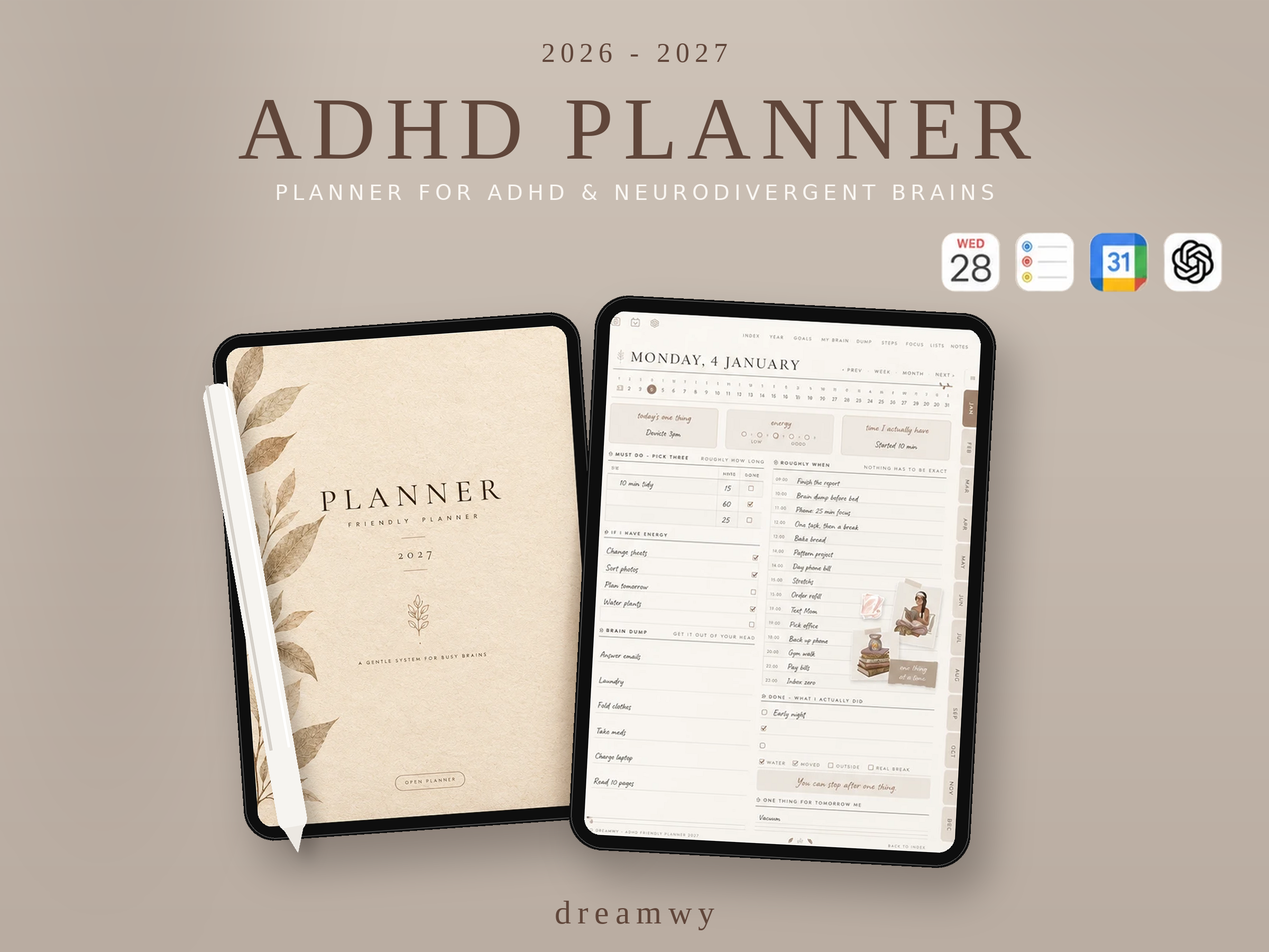
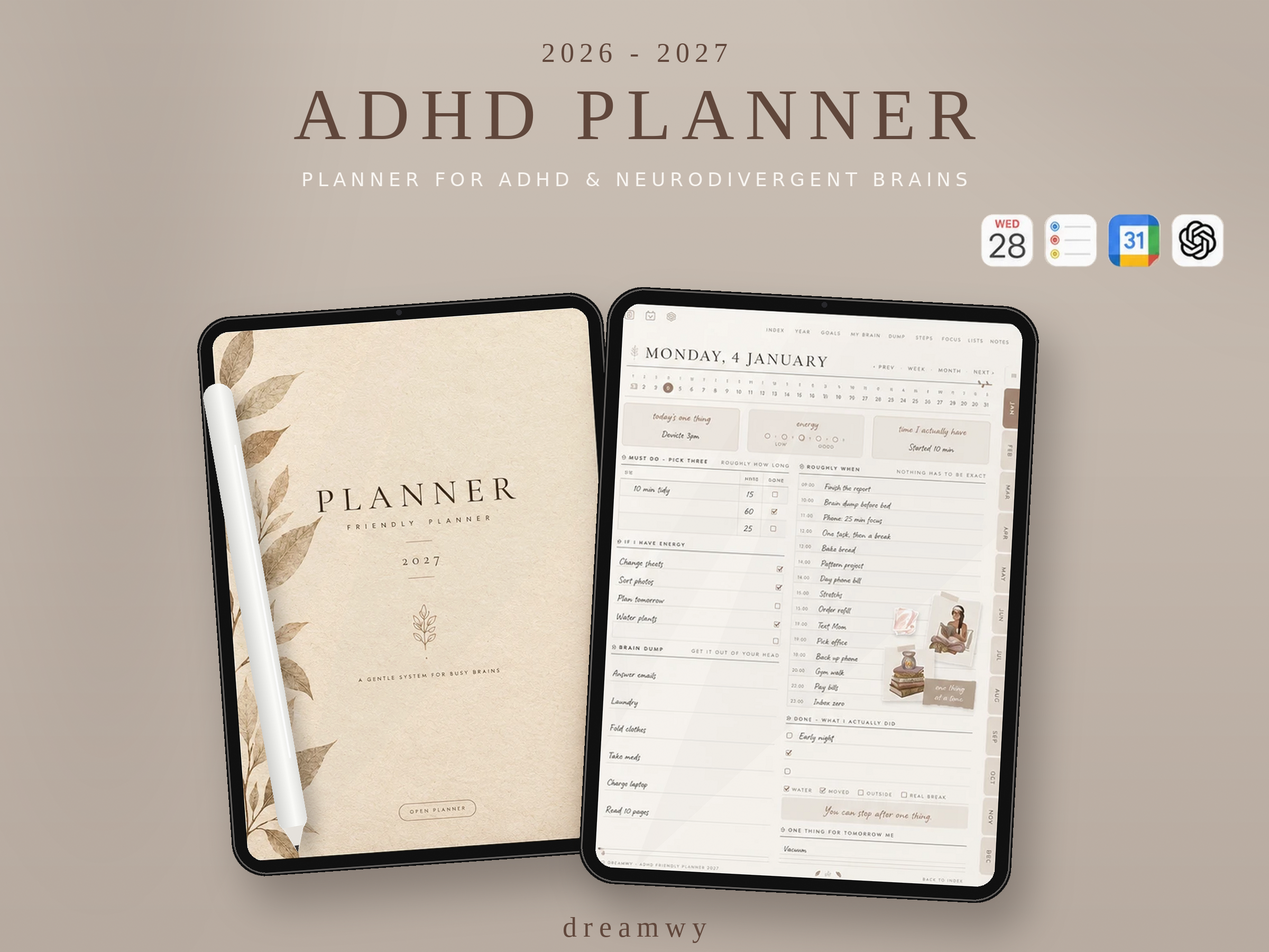
Improve mockup: larger tablets, tighter header, shaded pencil, subtle glare and vignette
Claude-Session: https://claude.ai/code/session_015ZGVvYxuW9E1f2kNKHXQzt

Changed region(s): [[0.1562, 0.0933, 0.9688, 0.9956], [0.2812, 0.6222, 0.375, 0.7156], [0.3125, 0.56, 0.3438, 0.5911]]

diff --git a/mockup/make_mockup.py b/mockup/make_mockup.py
@@ -51,8 +51,14 @@ def tablet(screen, height, angle):
     ImageDraw.Draw(m).rounded_rectangle((0, 0, sw - 1, sh_ - 1), radius=int(pad * 1.1), fill=255)
     dev = Image.new("RGBA", (w, h), (0, 0, 0, 0))
     ImageDraw.Draw(dev).rounded_rectangle((0, 0, w - 1, h - 1), radius=int(pad * 2.2), fill=(14, 14, 14, 255))
-    ImageDraw.Draw(dev).rounded_rectangle((3, 3, w - 4, h - 4), radius=int(pad * 2.2), outline=(70, 70, 70, 255), width=2)
+    ImageDraw.Draw(dev).rounded_rectangle((3, 3, w - 4, h - 4), radius=int(pad * 2.2), outline=(95, 92, 90, 255), width=3)
     dev.paste(scr, (pad, pad), m)
+    gl = Image.new("RGBA", (sw, sh_), (0, 0, 0, 0))
+    gd = ImageDraw.Draw(gl)
+    gd.polygon([(sw * .55, 0), (sw, 0), (sw, sh_ * .35), (sw * .1, sh_)], fill=(255, 255, 255, 7))
+    gd.polygon([(0, sh_ * .6), (sw * .45, 0), (sw * .6, 0), (0, sh_ * .8)], fill=(255, 255, 255, 4))
+    dev.paste(gl, (pad, pad), Image.composite(gl.split()[3], Image.new("L", gl.size, 0), m))
+    ImageDraw.Draw(dev).ellipse((w / 2 - 5, pad / 2 - 5, w / 2 + 5, pad / 2 + 5), fill=(38, 38, 42, 255))
     return dev.rotate(angle, resample=Image.BICUBIC, expand=True)
 
 
@@ -69,16 +75,24 @@ def place(dev, cx, cy):
     canvas.alpha_composite(dev, (x, y))
 
 
-place(tablet(cover, 960, 4), 780, 1090)
-place(tablet(daily, 1050, -3), 1480, 1100)
+place(tablet(cover, 1060, 4), 790, 1105)
+place(tablet(daily, 1130, -3), 1530, 1125)
 
 # pencil lying on the cover
 pen = Image.new("RGBA", (900, 56), (0, 0, 0, 0))
 pd = ImageDraw.Draw(pen)
-pd.rounded_rectangle((0, 0, 860, 55), radius=26, fill=(246, 244, 240, 255))
-pd.polygon([(850, 8), (900, 28), (850, 48)], fill=(236, 232, 226, 255))
-pd.rectangle((0, 8, 700, 12), fill=(255, 255, 255, 255))
-pd.rectangle((0, 42, 700, 47), fill=(214, 209, 202, 255))
+body = Image.new("RGBA", (860, 56), (0, 0, 0, 0))
+bd = ImageDraw.Draw(body)
+for yy in range(56):
+    k = 1 - abs(yy - 22) / 34
+    c = int(212 + 43 * max(k, 0))
+    bd.line([(0, yy), (860, yy)], fill=(c, c, int(c - 3), 255))
+mk = Image.new("L", (860, 56), 0)
+ImageDraw.Draw(mk).rounded_rectangle((0, 0, 859, 55), radius=26, fill=255)
+pen.paste(body, (0, 0), mk)
+pd.polygon([(850, 8), (900, 28), (850, 48)], fill=(232, 228, 222, 255))
+pd.polygon([(886, 24), (900, 28), (886, 32)], fill=(60, 56, 54, 255))
+pd.rectangle((120, 10, 720, 13), fill=(255, 255, 255, 255))
 pen = pen.rotate(-80, expand=True, resample=Image.BICUBIC)
 sh_p = Image.new("RGBA", pen.size, (30, 20, 14, 0)); sh_p.putalpha(pen.split()[3].point(lambda v: int(v * .5)))
 lay = Image.new("RGBA", (W, H), (0, 0, 0, 0)); lay.paste(sh_p, (400, 740), sh_p)
@@ -88,14 +102,22 @@ canvas.alpha_composite(pen, (380, 720))
 d = ImageDraw.Draw(canvas)
 ink = (96, 70, 58)
 spaced(d, (W / 2, 70), "2026 - 2027", ImageFont.truetype(serif, 52), ink, 10)
-spaced(d, (W / 2, 150), "ADHD PLANNER", ImageFont.truetype(serif, 168), ink, 18)
-spaced(d, (W / 2, 340), "PLANNER FOR ADHD & NEURODIVERGENT BRAINS", ImageFont.truetype(sans, 40), (250, 247, 243), 9)
+spaced(d, (W / 2, 140), "ADHD PLANNER", ImageFont.truetype(serif, 138), ink, 20)
+spaced(d, (W / 2, 318), "PLANNER FOR ADHD & NEURODIVERGENT BRAINS", ImageFont.truetype(sans, 36), (252, 249, 245), 9)
 # app icons, top right
-x = 1780
+x = 1855
 for ic in icons:
-    ic = ic.resize((112, 112), Image.LANCZOS)
-    m = Image.new("L", ic.size, 0); ImageDraw.Draw(m).rounded_rectangle((0, 0, 111, 111), radius=26, fill=255)
-    canvas.paste(ic, (x, 440), m)
-    x += 140
-spaced(d, (W / 2, 1690), "dreamwy", ImageFont.truetype(serif, 62), ink, 12)
-canvas.convert("RGB").save(OUT)
+    ic = ic.resize((100, 100), Image.LANCZOS)
+    m = Image.new("L", ic.size, 0); ImageDraw.Draw(m).rounded_rectangle((0, 0, 99, 99), radius=23, fill=255)
+    canvas.paste(ic, (x, 405), m)
+    x += 120
+spaced(d, (W / 2, 1722), "dreamwy", ImageFont.truetype(serif, 54), ink, 12)
+import random
+out = canvas.convert("RGB")
+vg = Image.new("L", (W, H), 0)
+ImageDraw.Draw(vg).ellipse((-W * .25, -H * .25, W * 1.25, H * 1.25), fill=255)
+vg = vg.filter(ImageFilter.GaussianBlur(260))
+out = Image.composite(out, Image.new("RGB", (W, H), (150, 134, 122)), vg.point(lambda v: 150 + v * 105 // 255))
+nz = Image.effect_noise((W, H), 14).convert("RGB")
+out = Image.blend(out, nz, 0.025)
+out.save(OUT)
